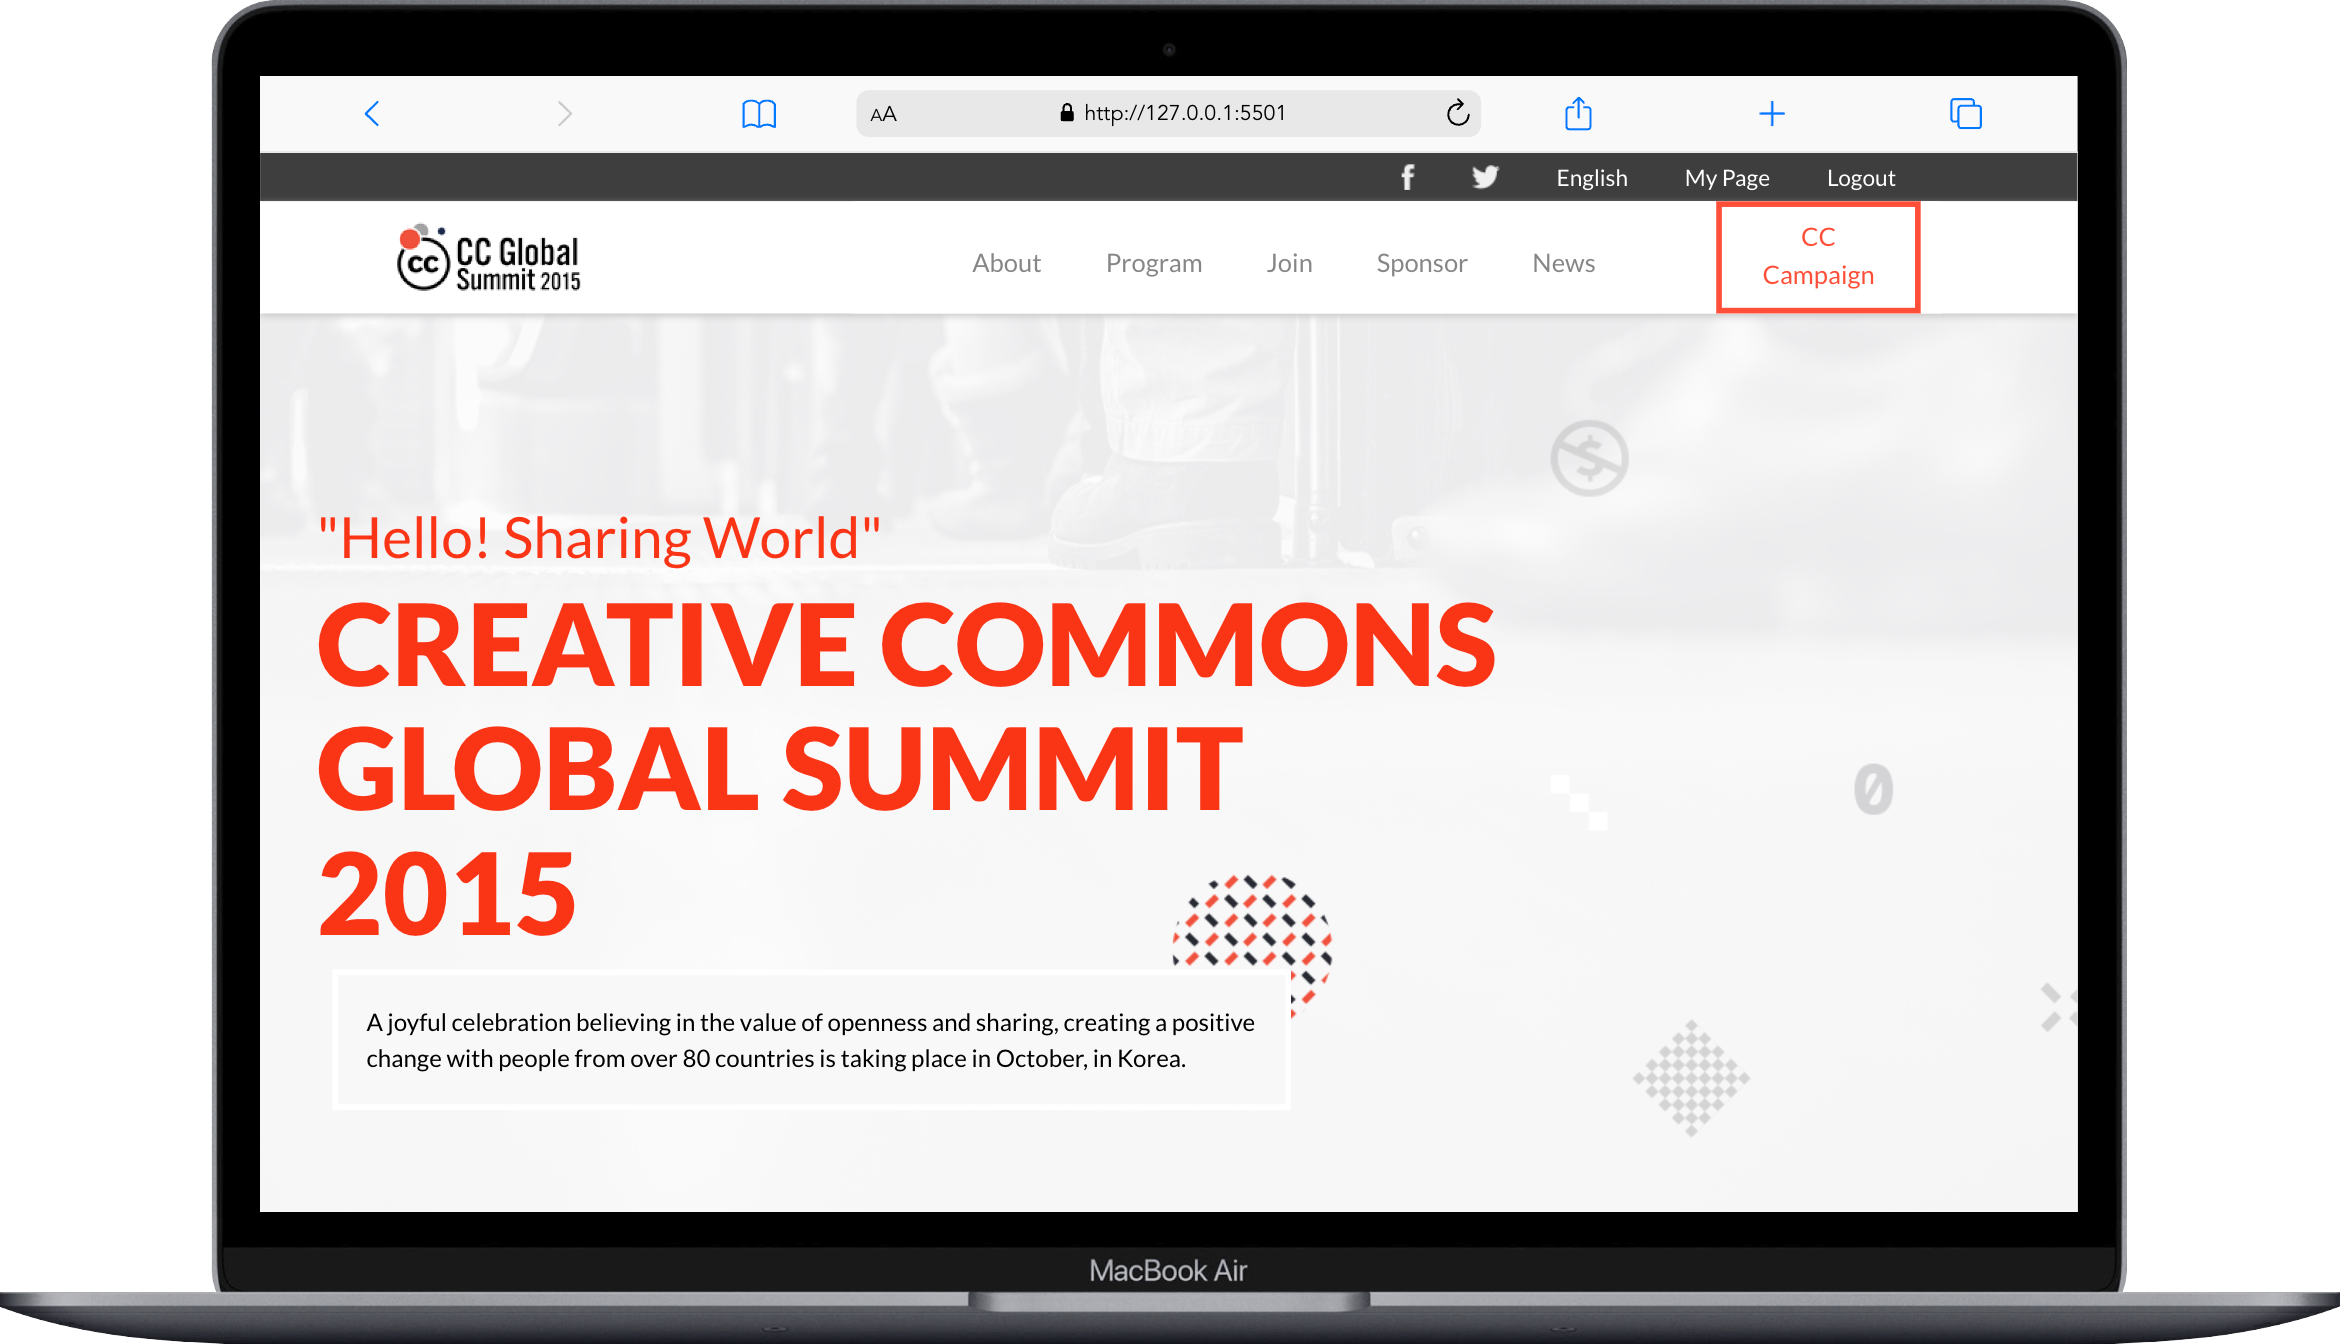
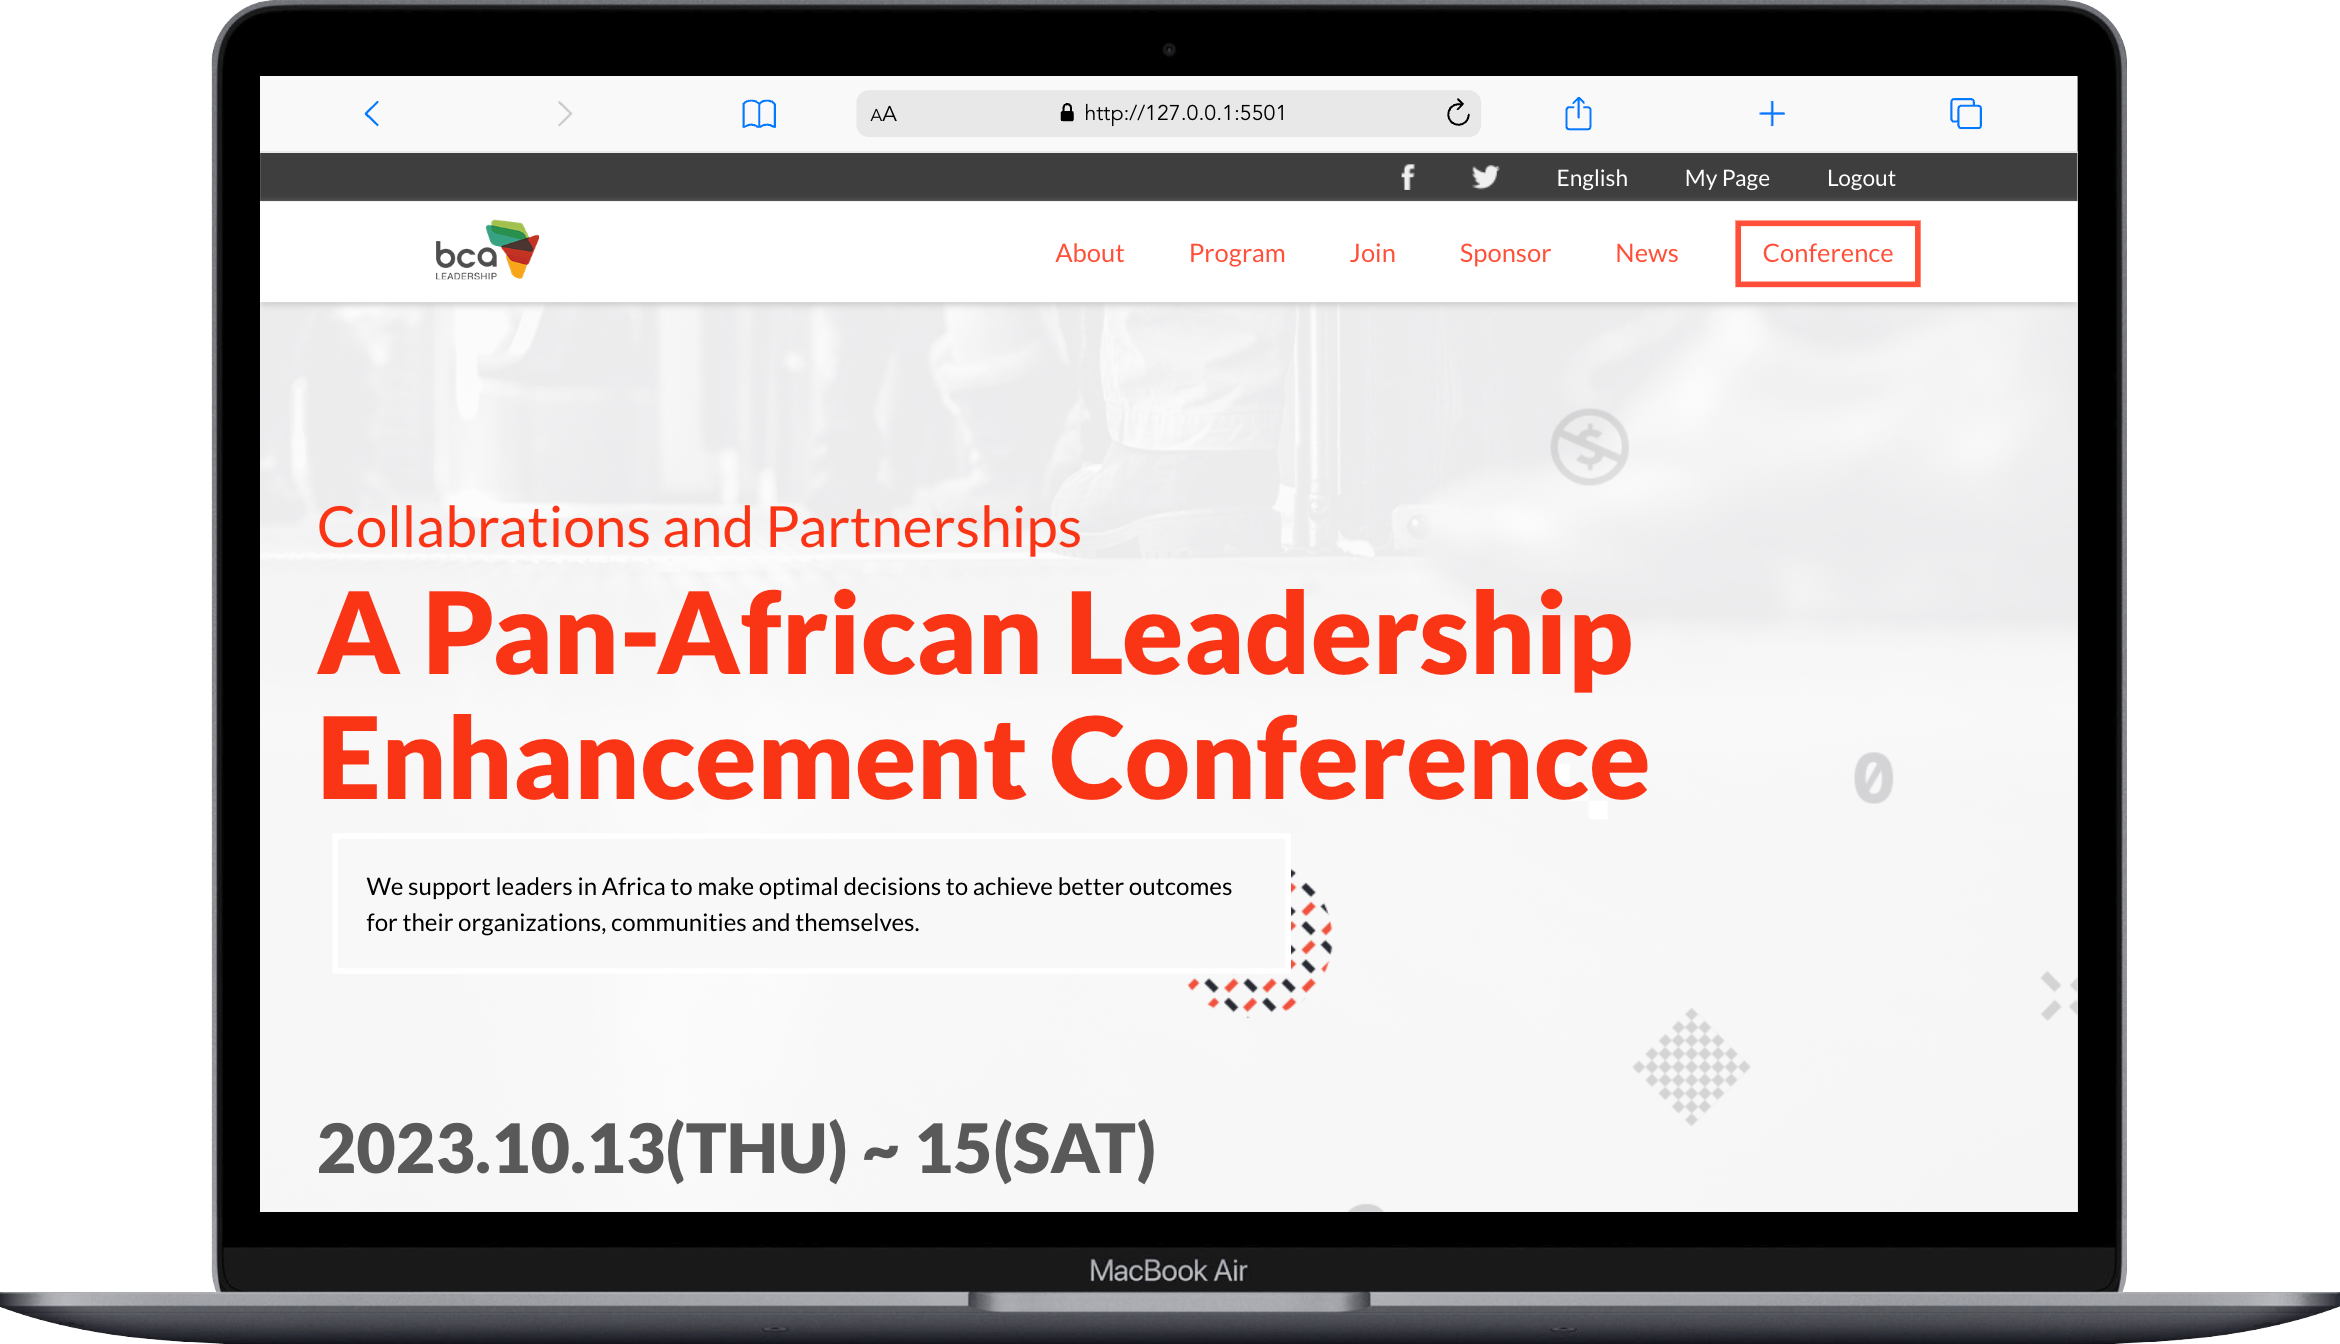
made changes to the readme file

diff --git a/README.md b/README.md
@@ -4,7 +4,7 @@
 # 📗 Table of Contents
 
 - [� Table of Contents](#-table-of-contents)
-- [📖 Hello-Microverse ](#-Hello-Microverse-)
+- [📖 Conference Project ](#-Conference-Project-)
   - [🛠 Built With ](#-built-with-)
     - [Tech Stack ](#tech-stack-)
     - [Key Features ](#key-features-)
@@ -23,15 +23,15 @@
   - [❓ FAQ ](#-faq-)
   - [📝 License ](#-license-)
 
-# 📖 Personal Portfolio <a name="about-project"></a>
+# 📖 A Pan-African Leadership Enhancement Conference Project<a name="about-project"></a>
 
-**Creative Commons Summit** The Creative Commons Global Summit is an annual event that brings together the Creative Commons community, including creators, activists, policymakers, and advocates, to discuss and collaborate on issues related to open licensing, sharing, and the commons.
+**A Pan-African Leadership Enhancement Conference** The conference gathers like-minded leaders, innovators, and entrepreneurs to spark new ideas, forge new partnerships and catalyse social, financial and a mind shift change for leaders in Africa. This year, we are gathering 300+ leaders in Accra, Ghana and several others online for the 5th edition of MLC.
 
 
 
 <div align="center">
 
-  <h3><b>Creative Commons Caption Project</b></h3>
+  <h3><b>A Pan-African Leadership Enhancement Conference Project</b></h3>
 
 </div>
 
@@ -124,6 +124,7 @@ You can deploy this project using: GitHub Pages,
 
 
 ## 🚀 Demo <a name="live-demo"></a>
+https://ctokoli.github.io/Conference-Capstone-Project/
 
 > |     | Mobile version                      | Desktop version                      |     |
 > | --- | ----------------------------------- | ------------------------------------ | --- |
@@ -168,6 +169,7 @@ Give a ⭐ if you like this project and how I managed to build it!
 
 
 - Project from [Microverse](https://www.microverse.org/) html & css module.
+- Many thanks to <a href="https://www.behance.net/adagio07">Cindy Shin</a> for the UI design 
 - Thanks to the Microverse team for the great curriculum.
 - Thanks to the Code Reviewer(s) for the insightful feedbacks.
 - A great thanks to My coding partner(s), morning session team, and standup team for their contributions.
